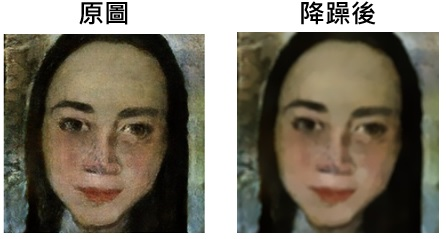
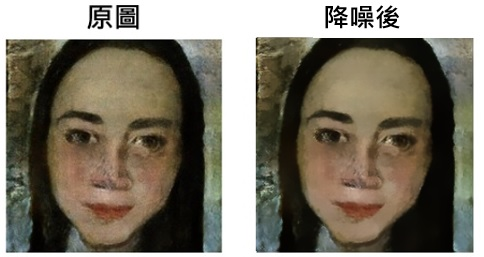
new change

diff --git a/Non Local Means/Patch Wise Non Local Means.py b/Non Local Means/Patch Wise Non Local Means.py
@@ -5,69 +5,82 @@ import matplotlib.pyplot as plt
 path = "C:/Users/USER/Desktop/Python/影像處理/練習/practice pic2.jpg"
 image = plt.imread(path)
 img = image.copy()
-f = 5 #window size of simlular area
-f_r = f//2 #radius of simlular area
-s = 21 #window size of search area
-s_r = s//2 #radius of search area
-h = 8 #degree of filting
-variance = 20 #variance of noise in image
 
-def eu_distance(Bi,Bj):
+def NLM(img, f = 5, s = 21, variance = 20, h = 8):
     """
-    calculate Euclidean distance between two image region
-    Bi & Bj is two image areas in same array size
+    Non Local Means Denoising Method
+    f is window size of simular area
+    s is window size of search area
+    variance is variance of noise
+    h is degree of filtering
     """
-    f = np.shape(Bi)[0]
-    eu_dis = ((Bi - Bj)**2).sum()/(3*(f**2))
-    return eu_dis
+    f = 5 #window size of simular area
+    f_r = f//2 #radius of simular area
+    s = 21 #window size of search area
+    s_r = s//2 #radius of search area
+    h = 8 #degree of filtering
+    variance = 20 #variance of noise in image
 
-def weight_func(eu_dis,varian,h):
-    var = max(eu_dis-2*varian,0)
-    return math.exp(-var/(h**2))
+    def eu_distance(Bi,Bj):
+        """
+        calculate Euclidean distance between two image region
+        Bi & Bj is two image areas in same array size
+        """
+        f = np.shape(Bi)[0]
+        eu_dis = ((Bi - Bj)**2).sum()/(3*(f**2))
+        return eu_dis
 
-#mirror padding
-def mir_padding(img,f):
-    imgi , imgj = np.shape(img[:,:,0])
-    add_n = f//2
-    img_p = np.zeros((imgi+2*add_n,imgj+2*add_n,3))  #create padding image
-    img_p[add_n:imgi+add_n,add_n:imgj+add_n,:] = img  #throw original image to padding image
-    img_p[0:add_n,add_n:imgj+add_n,:] = img[add_n-1::-1,:,:] # padding upper rows
-    img_p[-add_n::1,add_n:imgj+add_n,:] = img[-1:-add_n-1:-1,:,:] # padding bottom rows
-    img_p[add_n:imgi+add_n,0:add_n,:] = img[:,add_n-1::-1,:] # padding left column
-    img_p[add_n:imgi+add_n,-add_n::1,:] = img[:,-1:-add_n-1:-1,:] # padding right column
-    for i in range(f):
-        img_p[0:add_n,i,:] = img[add_n-1-i,add_n-1::-1,:] # padding upper-left corner
-        img_p[0:add_n,-i,:] = img[add_n-1-i,-add_n::1,:] # padding upper-righ corner
-        img_p[-1:-add_n-1:-1,i,:] = img[-add_n+i,add_n-1::-1,:] # padding lower-left corner
-        img_p[-1:-add_n-1:-1,-i,:] = img[-add_n+i,-add_n::1,:] # padding lower-right corner
-    return img_p
+    def weight_func(eu_dis,varian,h):
+        """
+        calculate weight between two simular area
+        """
+        var = max(eu_dis-2*varian,0)
+        return math.exp(-var/(h**2))
 
-img_p = mir_padding(img,f) #mirror padding
-ix , iy = np.shape(img[:,:,0]) # image size
+    #mirror padding
+    def mir_padding(img,f):
+        imgi , imgj = np.shape(img[:,:,0])
+        add_n = f//2
+        img_p = np.zeros((imgi+2*add_n,imgj+2*add_n,3))  #create padding image
+        img_p[add_n:imgi+add_n,add_n:imgj+add_n,:] = img  #throw original image to padding image
+        img_p[0:add_n,add_n:imgj+add_n,:] = img[add_n-1::-1,:,:] # padding upper rows
+        img_p[-add_n::1,add_n:imgj+add_n,:] = img[-1:-add_n-1:-1,:,:] # padding bottom rows
+        img_p[add_n:imgi+add_n,0:add_n,:] = img[:,add_n-1::-1,:] # padding left column
+        img_p[add_n:imgi+add_n,-add_n::1,:] = img[:,-1:-add_n-1:-1,:] # padding right column
+        for i in range(f):
+            img_p[0:add_n,i,:] = img[add_n-1-i,add_n-1::-1,:] # padding upper-left corner
+            img_p[0:add_n,-i,:] = img[add_n-1-i,-add_n::1,:] # padding upper-righ corner
+            img_p[-1:-add_n-1:-1,i,:] = img[-add_n+i,add_n-1::-1,:] # padding lower-left corner
+            img_p[-1:-add_n-1:-1,-i,:] = img[-add_n+i,-add_n::1,:] # padding lower-right corner
+        return img_p
 
-NLu = np.zeros([ix,iy,3]) # create new image
-for k in range(ix):
-  for m in range(iy):
-    Bp = img_p[k:k+f,m:m+f,:]
-    Cp = 0
-    wuj = np.zeros([f,f,3])
+    img_p = mir_padding(img,f) #mirror padding
+    ix , iy = np.shape(img[:,:,0]) # image size
 
-    #find points meet size of search area
-    mod_numx = abs(min(k - s_r + f_r,0))
-    upper_search = max(k - s_r + f_r,0)
-    lower_search = min(k + s_r - f_r + mod_numx,ix)
-    mod_numy = abs(min(m - s_r + f_r,0))
-    left_search = max(m - s_r + f_r,0)
-    right_search = min(m + s_r - f_r + mod_numy,iy)
-    for i in range(upper_search,lower_search):
-        for j in range(left_search,right_search):
-            Bq = img_p[i:i+f,j:j+f,:]
-            eu_dis = eu_distance(Bp,Bq)
-            weight = weight_func(eu_dis,variance,h)
-            Cp += weight
-            wuj += weight*Bq
-    Bi = wuj/Cp
-    NLu[k,m,:] = Bi.sum(axis = (0,1))/(f**2)
+    NLu = np.zeros([ix,iy,3]) # create new image
+    for k in range(ix):
+        for m in range(iy):
+            Bp = img_p[k:k+f,m:m+f,:]
+            Cp = 0
+            wuj = np.zeros(3)
 
-NLu = np.rint(NLu)
-plt.imshow(NLu)
+            #find points meet size of search area
+            mod_numx = abs(min(k - s_r + f_r,0))
+            upper_search = max(k - s_r + f_r,0)
+            lower_search = min(k + s_r - f_r + mod_numx,ix)
+            mod_numy = abs(min(m - s_r + f_r,0))
+            left_search = max(m - s_r + f_r,0)
+            right_search = min(m + s_r - f_r + mod_numy,iy)
+
+            #calculate grey level after denoising
+            for i in range(upper_search,lower_search):
+                for j in range(left_search,right_search):
+                    Bq = img_p[i:i+f,j:j+f,:]
+                    eu_dis = eu_distance(Bp,Bq)
+                    weight = weight_func(eu_dis,variance,h)
+                    Cp += weight
+                    wuj += weight*Bq[f_r,f_r,:]
+            NLu[k,m,:] = wuj/Cp
+
+    NLu = np.rint(NLu)
+    return NLu
